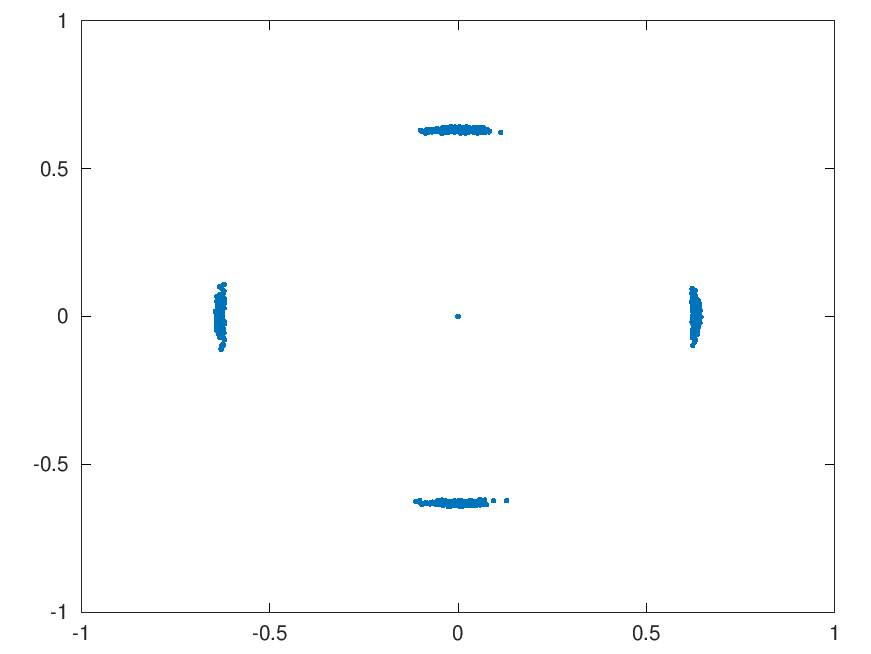
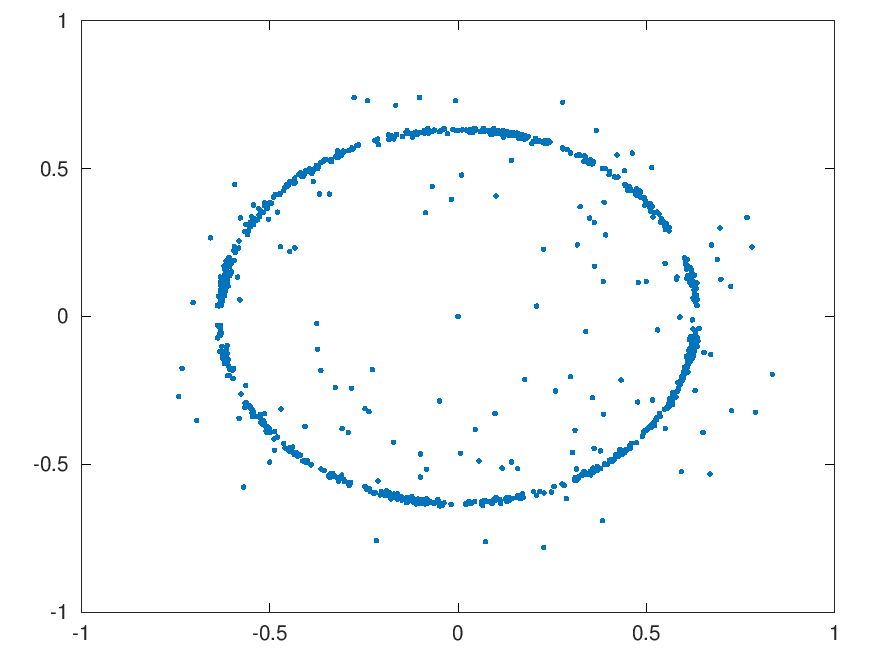
Add new costas design

diff --git a/qpsk.c b/qpsk.c
@@ -1,7 +1,7 @@
 /*
  * qpsk.c
  *
- * Testing program for qpsk modem algorithms, October 2022
+ * Testing program for qpsk modem algorithms, November 2022
  */
 
 // Includes
@@ -16,6 +16,7 @@
 #include <math.h>
 
 #include "qpsk.h"
+#include "costas_loop.h"
 #include "rrc_fir.h"
 
 // Prototypes
@@ -35,13 +36,6 @@ static complex float input_frame[FRAME_SIZE];
 static complex float costas_frame[522];		// allow for index overflow
 static complex float decimated_frame[256];
 
-/*
- * Costas Loop values
- */
-
-static float omega_hat;
-static float phi_hat;
-
 // Two phase for full duplex
 
 static complex float fbb_tx_phase;
@@ -51,6 +45,8 @@ static complex float fbb_rx_phase;
 static complex float fbb_rx_rect;
 
 static float fbb_offset_freq;
+
+static float d_error;
 
 /*
  * QPSK Quadrant bit-pair values - Gray Coded
@@ -68,6 +64,21 @@ static float cnormf(complex float val) {
     float imagf = cimagf(val);
 
     return realf * realf + imagf * imagf;
+}
+
+static float phase_detector(complex float sample) {
+    return ((crealf(sample) > 0.0f ? 1.0f : -1.0f) * cimagf(sample) -
+            (cimagf(sample) > 0.0f ? 1.0f : -1.0f) * crealf(sample));
+}
+
+static float convolve(const float *data, const float *filter, int filter_size) {
+	float sum = 0.0f;
+
+	for (int i = 0; i < filter_size; i++) {
+	    sum += filter[i] * data[i];
+	}
+
+	return sum;
 }
 
 /*
@@ -109,21 +120,6 @@ static int find_quadrant(complex float symbol) {
  * Remove any frequency and timing offsets
  */
 void rx_frame(int16_t in[], int bits[]) {
-    float max_i = 0.0f;
-    float max_q = 0.0f;
-
-    float av_i = 0.0f;;
-    float av_q = 0.0f;
-
-    //int rxbits[2];
-    
-    /*
-     * You need as many histograms as you think
-     * you'll need for timing offset. Using 8 for now.
-     */
-    int hist_i[8] = { 0 };
-    int hist_q[8] = { 0 };
-
     /*
      * Convert input PCM to complex samples
      * at 9600 Hz sample rate
@@ -145,23 +141,34 @@ void rx_frame(int16_t in[], int bits[]) {
      * Costas Loop over the whole filtered input frame
      */
     for (int i = 0; i < FRAME_SIZE; i++) {
-        costas_frame[i] = input_frame[i] * cmplxconj(phi_hat);  // carrier sync
+        costas_frame[i] = input_frame[i] * cmplxconj(get_phase());
 
-        /*
-         * Compute 4th-Order phase error (remove modulation)
-         */
-        float phi_error_hat = cargf(cpowf(costas_frame[i], 4.0f));
+        d_error = phase_detector(costas_frame[i]);
 
-        omega_hat += (BETA * phi_error_hat);                   // loop filter
-        phi_hat += ((ALPHA * phi_error_hat) + omega_hat);
+        advance_loop(d_error);
+        phase_wrap();
+        frequency_limit();
     }
 
     /*
      * Save the detected frequency error
      */
-    fbb_offset_freq = (omega_hat * (FS / TAU));
+    fbb_offset_freq = (get_frequency() * FS / TAU);
     
     //printf("Frequency Error = %.1f\n", fbb_offset_freq);
+
+    float max_i = 0.0f;
+    float max_q = 0.0f;
+
+    float av_i = 0.0f;;
+    float av_q = 0.0f;
+    
+    /*
+     * You need as many histograms as you think
+     * you'll need for timing offset. Using 8 for now.
+     */
+    int hist_i[8] = { 0 };
+    int hist_q[8] = { 0 };
     
     /*
      * Find maximum absolute I/Q value for one symbol length
@@ -222,6 +229,8 @@ void rx_frame(int16_t in[], int bits[]) {
             index = i;
         }
     }
+
+    //printf("Index = %d\n", index);
 
     /*
      * Decimate by 4 to the 2400 symbol rate
@@ -316,6 +325,8 @@ int main(int argc, char** argv) {
 
     srand(time(0));
 
+    create_control_loop((M_PI / 100.0f), 1.0f, -1.0f);
+
     /*
      * Create an RRC filter using the
      * Sample Rate, baud, and Alpha
@@ -329,11 +340,11 @@ int main(int argc, char** argv) {
     fout = fopen(TX_FILENAME, "wb");
 
     fbb_tx_phase = cmplx(0.0f);
-    //fbb_tx_rect = cmplx(TAU * CENTER / FS);    // add TX Freq Error to center
-    //fbb_offset_freq = CENTER;
+    fbb_tx_rect = cmplx(TAU * CENTER / FS);    // add TX Freq Error to center
+    fbb_offset_freq = CENTER;
 
-    fbb_tx_rect = cmplx(TAU * (CENTER + 5.0) / FS);
-    fbb_offset_freq = (CENTER + 5.0);
+    //fbb_tx_rect = cmplx(TAU * (CENTER + 5.0) / FS);
+    //fbb_offset_freq = (CENTER + 5.0);
 
     for (int k = 0; k < 100; k++) {
         /*
@@ -363,12 +374,6 @@ int main(int argc, char** argv) {
 
     fbb_rx_phase = cmplx(0.0f);
     fbb_rx_rect = cmplxconj(TAU * CENTER / FS);
-
-    /*
-     * Initialize Costas loop
-     */
-    omega_hat = 0.0f;
-    phi_hat = 0.0f;
 
     while (1) {
         /*

diff --git a/costas_loop.c b/costas_loop.c
@@ -1,0 +1,145 @@
+
+#include <complex.h>
+#include <math.h>
+
+#include "qpsk.h"
+#include "costas_loop.h"
+
+static float d_phase;
+static float d_freq;
+
+static float d_max_freq;
+static float d_min_freq;
+
+static float d_damping;
+static float d_loop_bw;
+
+static float d_alpha;
+static float d_beta;
+
+/*
+ * A Costas loop carrier recovery algorithm.
+ *
+ * The Costas loop locks to the center frequency of a signal and
+ * downconverts it to baseband.
+ */
+void create_control_loop(float loop_bw, float min_freq, float max_freq) {
+    set_phase(0.0f);
+    set_frequency(0.0f);
+
+    set_max_freq(max_freq);
+    set_min_freq(min_freq);
+
+    set_damping_factor(sqrtf(2.0f) / 2.0f);
+
+    // Calls update_gains()
+    set_loop_bandwidth(loop_bw);
+}
+
+void update_gains() {
+    float denom = ((1.0f + (2.0f * d_damping * d_loop_bw)) + (d_loop_bw * d_loop_bw));
+
+    d_alpha = (4.0f * d_damping * d_loop_bw) / denom;
+    d_beta = (4.0f * d_loop_bw * d_loop_bw) / denom;
+}
+
+void advance_loop(float error) {
+    d_freq = d_freq + d_beta * error;
+    d_phase = d_phase + d_freq + d_alpha * error;
+}
+
+void phase_wrap() {
+    while (d_phase > TAU)
+        d_phase -= TAU;
+
+    while (d_phase < -TAU)
+        d_phase += TAU;
+}
+
+void frequency_limit() {
+    if (d_freq > d_max_freq)
+        d_freq = d_max_freq;
+    else if (d_freq < d_min_freq)
+        d_freq = d_min_freq;
+}
+
+
+// Setters
+
+void set_loop_bandwidth(float bw)
+{
+    if (bw < 0.0f) {
+        d_loop_bw = 0.0f;
+    }
+
+    d_loop_bw = bw;
+    update_gains();
+}
+
+void set_damping_factor(float df)
+{
+    if (df <= 0.0f) {
+        d_damping = 0.0f;
+    }
+
+    d_damping = df;
+    update_gains();
+}
+
+void set_alpha(float alpha)
+{
+    if (alpha < 0.0f || alpha > 1.0f) {
+        d_alpha = 0.0f;
+    }
+
+    d_alpha = alpha;
+}
+
+void set_beta(float beta)
+{
+    if (beta < 0.0f || beta > 1.0f) {
+        d_beta = 0.0f;
+    }
+
+    d_beta = beta;
+}
+
+void set_frequency(float freq)
+{
+    if (freq > d_max_freq)
+        d_freq = d_max_freq;
+    else if (freq < d_min_freq)
+        d_freq = d_min_freq;
+    else
+        d_freq = freq;
+}
+
+void set_phase(float phase)
+{
+    d_phase = phase;
+
+    phase_wrap();
+}
+
+void set_max_freq(float freq) { d_max_freq = freq; }
+
+void set_min_freq(float freq) { d_min_freq = freq; }
+
+// Getters
+
+float get_loop_bandwidth() { return d_loop_bw; }
+
+float get_damping_factor() { return d_damping; }
+
+float get_alpha() { return d_alpha; }
+
+float get_beta() { return d_beta; }
+
+float get_frequency() { return d_freq; }
+
+float get_phase() { return d_phase; }
+
+float get_max_freq() { return d_max_freq; }
+
+float get_min_freq() { return d_min_freq; }
+

diff --git a/costas_loop.h b/costas_loop.h
@@ -1,0 +1,41 @@
+#pragma once
+
+#ifdef __cplusplus
+extern "C"
+{
+#endif
+
+void create_costas(float);
+void costas(complex float *);
+void create_control_loop(float, float, float);
+void update_gains(void);
+void advance_loop(float);
+void phase_wrap(void);
+void frequency_limit(void);
+
+// Setters
+
+void set_loop_bandwidth(float);
+void set_damping_factor(float);
+void set_alpha(float);
+void set_beta(float);
+void set_frequency(float);
+void set_phase(float);
+void set_max_freq(float);
+void set_min_freq(float);
+
+// Getters
+
+float get_loop_bandwidth();
+float get_damping_factor();
+float get_alpha();
+float get_beta();
+float get_frequency();
+float get_phase();
+float get_max_freq(void);
+float get_min_freq(void);
+
+#ifdef __cplusplus
+}
+#endif
+

diff --git a/qpsk.h b/qpsk.h
@@ -31,7 +31,7 @@ extern "C"
 
 #define TAU             (2.0 * M_PI)
 
-#define ALPHA		0.015
+#define ALPHA		0.010
 #define BETA		(ALPHA * ALPHA)
 
 /*
